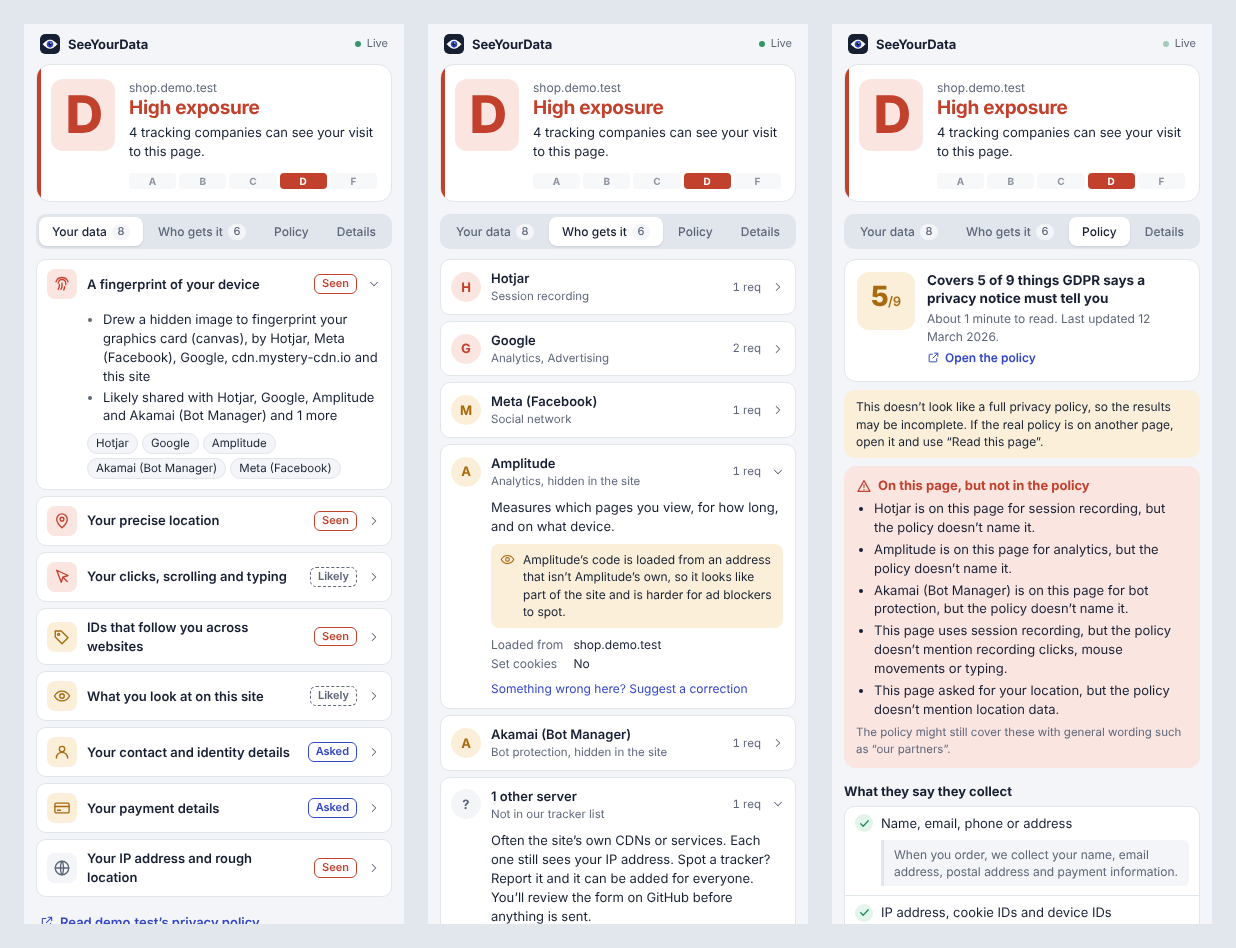
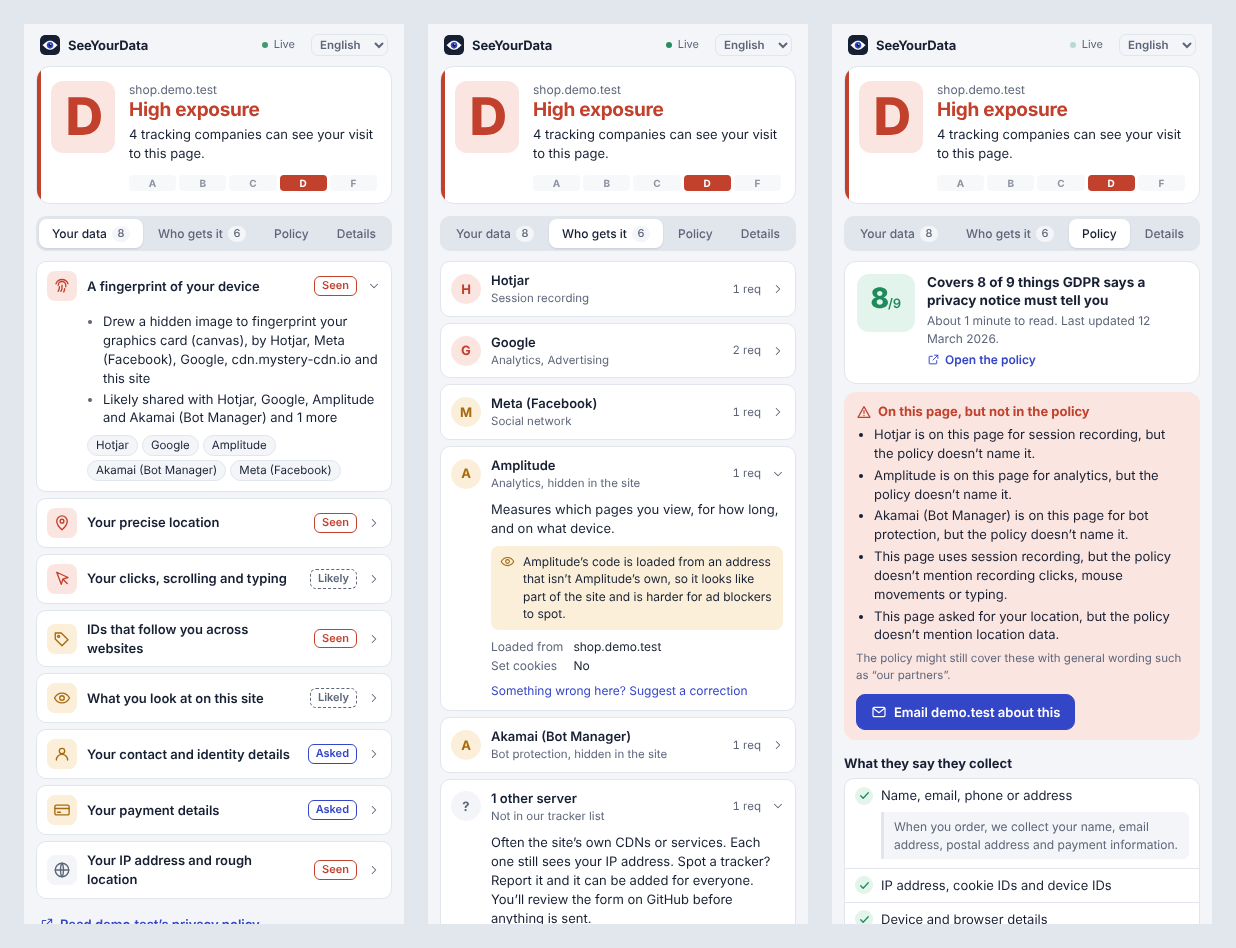
Refresh README screenshots for version 0.6.0
New screenshots show the language menu, a realistic policy check and
the email button; adds a German and Turkish example. The demo policy
used by the browser test is now full-length.

Claude-Session: https://claude.ai/code/session_01XK9NZGWdt5g7wrh34Zqs6W

diff --git a/test/e2e.py b/test/e2e.py
@@ -34,6 +34,11 @@ POLICY_HTML=b"""<!doctype html><html><head><title>Privacy Policy</title></head><
 <h2>Sharing</h2><p>We share data with service providers such as payment processors.</p>
 <h2>Your rights</h2><p>You have the right of access, rectification and erasure. You may withdraw your consent at any time.</p>
 <p>Questions? Contact our data protection officer at privacy@demo.test.</p>
+<h2>Cookies</h2><p>We use cookies that are necessary for the shopping cart and checkout to work. With your consent we also use cookies to measure how our website is used and to show you relevant offers. You can change your cookie settings at any time using the link in the footer of every page.</p>
+<h2>Retention</h2><p>We keep order data for ten years because tax law requires it. Account data is deleted when you close your account. Server log files are deleted after fourteen days.</p>
+<h2>Transfers</h2><p>Some of our service providers are located outside the European Economic Area. In those cases we rely on standard contractual clauses approved by the European Commission to protect your data.</p>
+<h2>Complaints</h2><p>You have the right to lodge a complaint with a supervisory authority, in particular in the member state where you live or work.</p>
+<h2>Changes</h2><p>We may update this privacy policy when our services or the law change. The date at the top of this page shows when it was last updated. Please check it from time to time.</p>
 </main></body></html>"""
 TRACKER_JS=b"(function(){var c=document.createElement('canvas');c.width=300;c.height=60;var x=c.getContext('2d');x.fillText('fp',1,1);c.toDataURL();})();"
 

diff --git a/README.md b/README.md
@@ -14,13 +14,15 @@ SeeYourData is a free, open-source Chrome extension. Click its icon on any websi
 
 ![SeeYourData popup: the grade and your data, the companies that receive it, and the privacy-policy check](docs/screenshot.png)
 
-*Left to right: what the page can learn about you, who receives it (including trackers hidden in the site's own domain), and what the privacy policy says and leaves out. Dark mode is supported too.*
+*Left to right: what the page can learn about you, who receives it (including trackers hidden in the site's own domain), and what the privacy policy says and leaves out. Dark mode is supported too, as the Turkish example below shows.*
 
 ![The email draft page, with the evidence filled in](docs/email-draft.png)
 
 The toolbar badge shows how many tracking companies are on the current page, coloured by the grade.
 
 **Languages:** English, Deutsch and Türkçe. SeeYourData starts in your browser's language; switch it any time with the language menu at the top of the popup.
+
+![SeeYourData in German (light mode) and Turkish (dark mode)](docs/languages.png)
 
 ## Install
 
